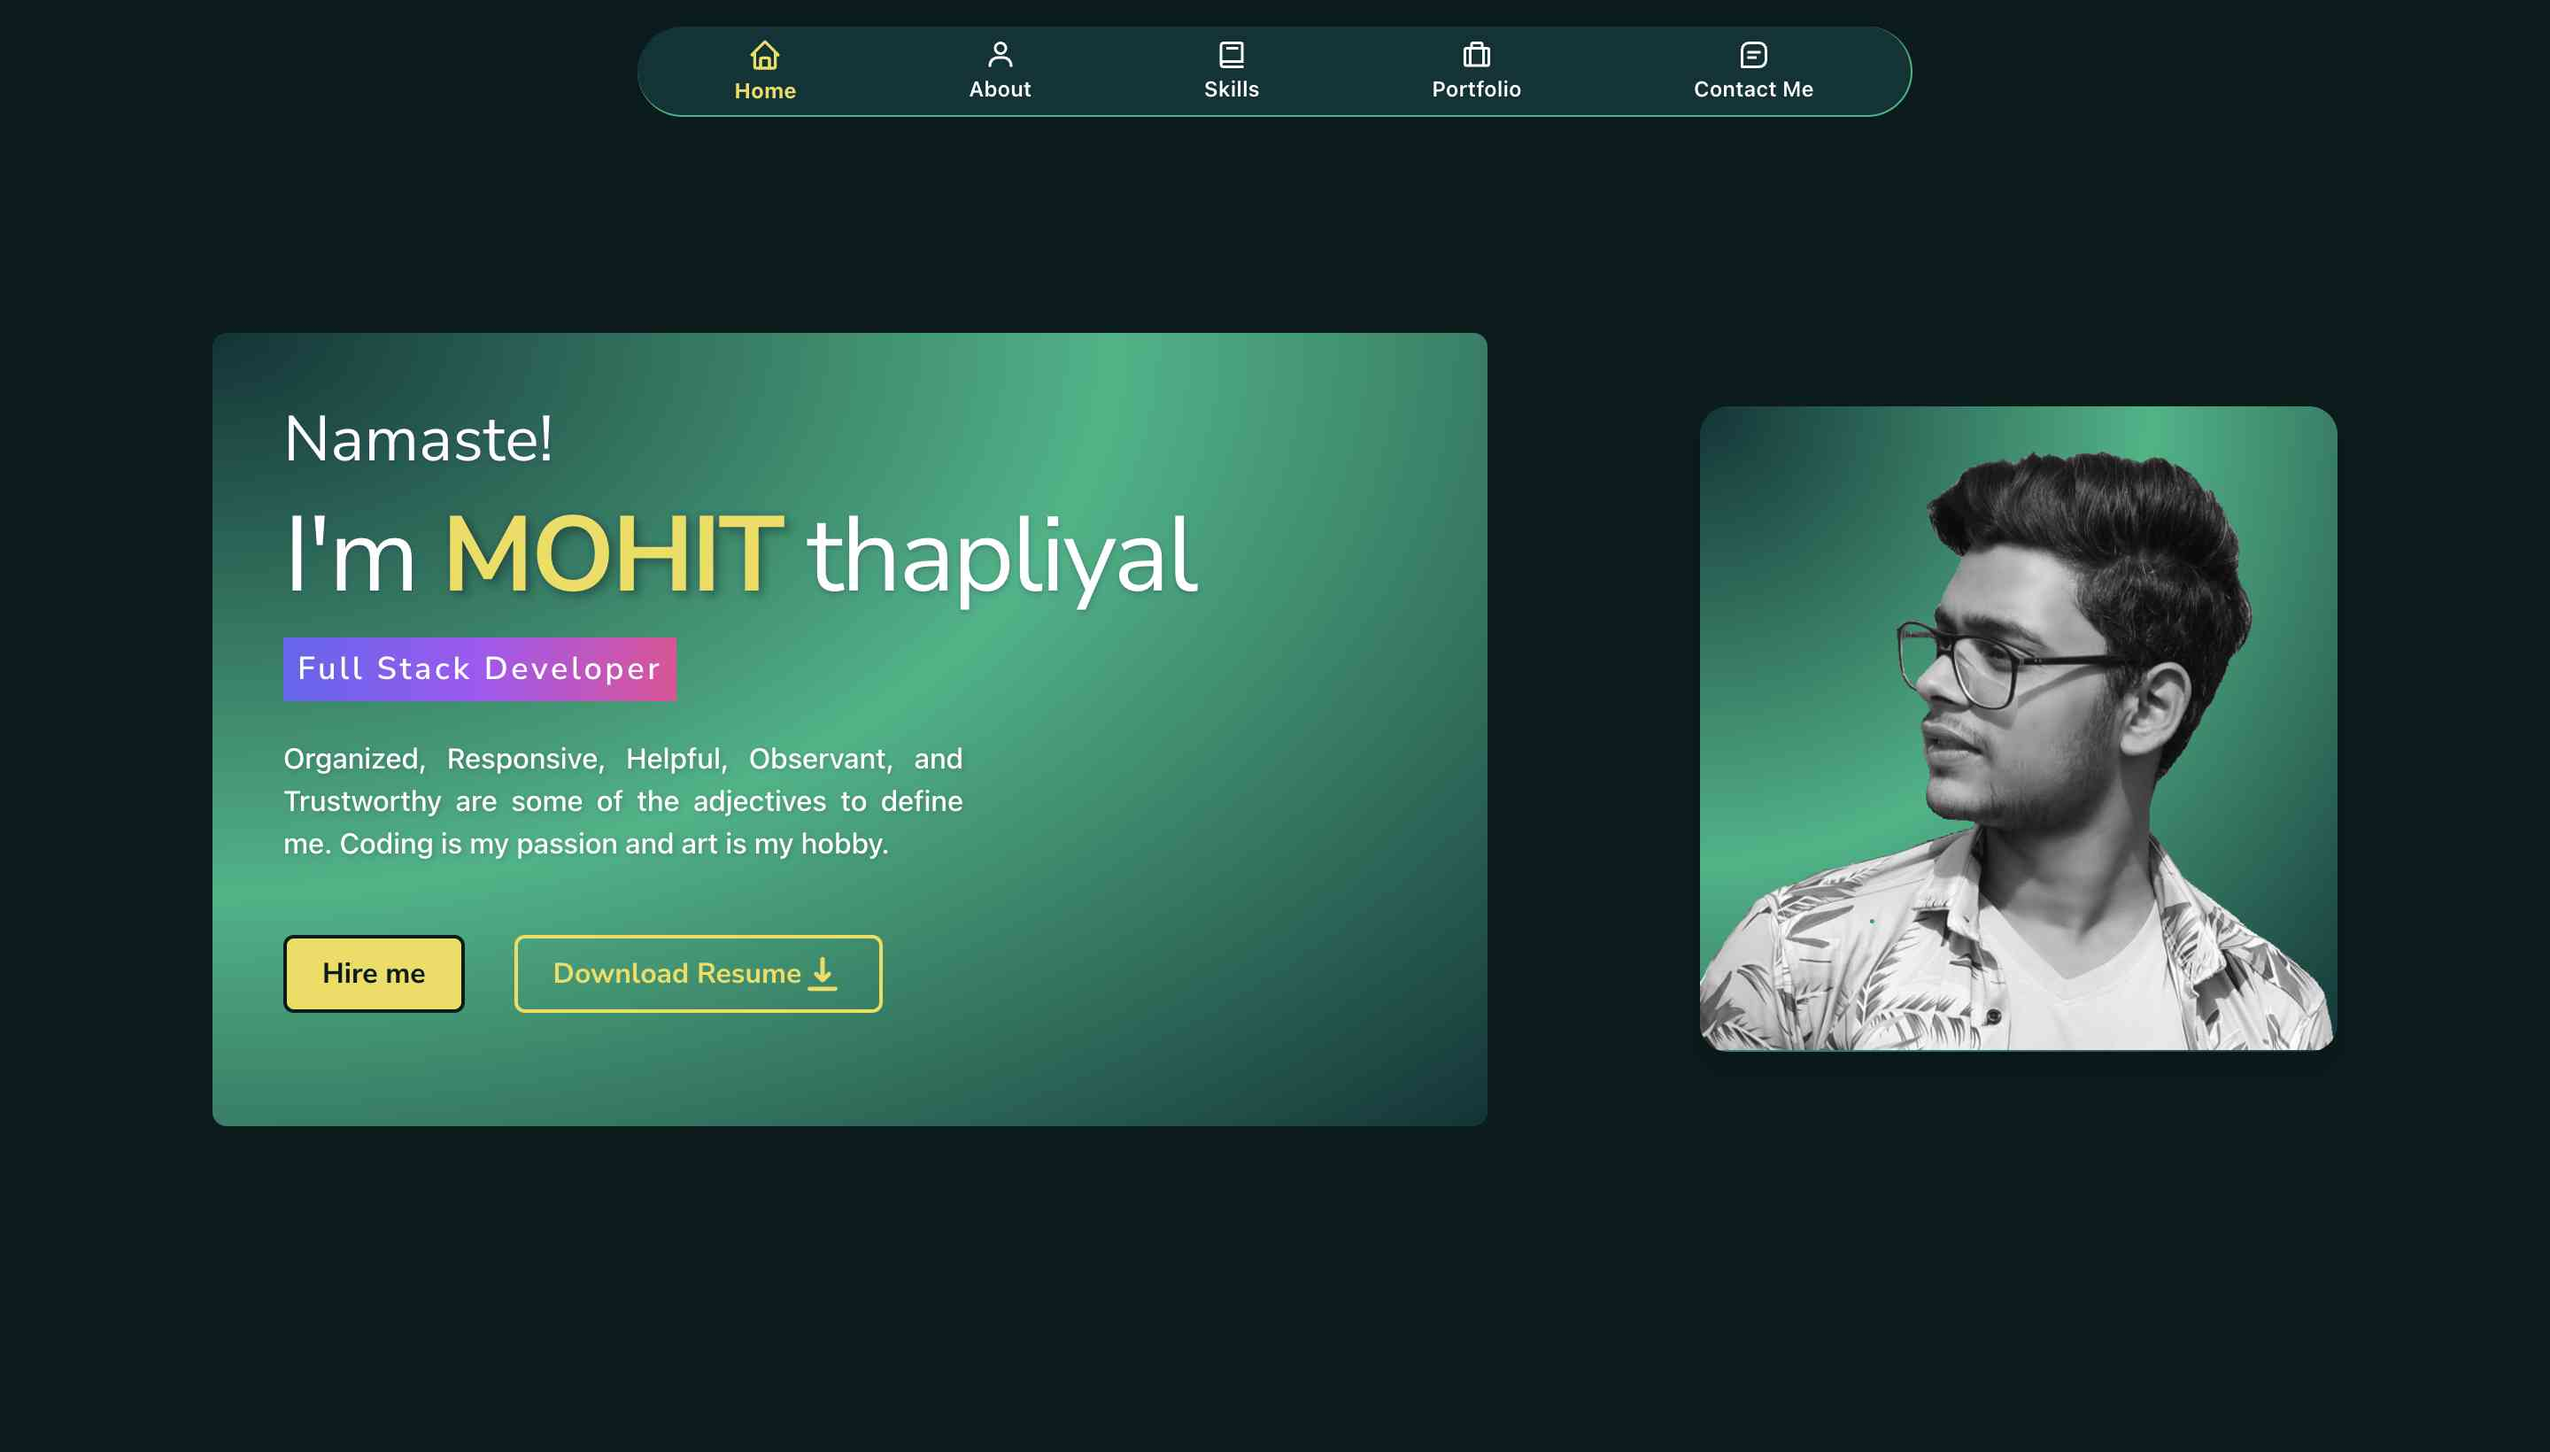
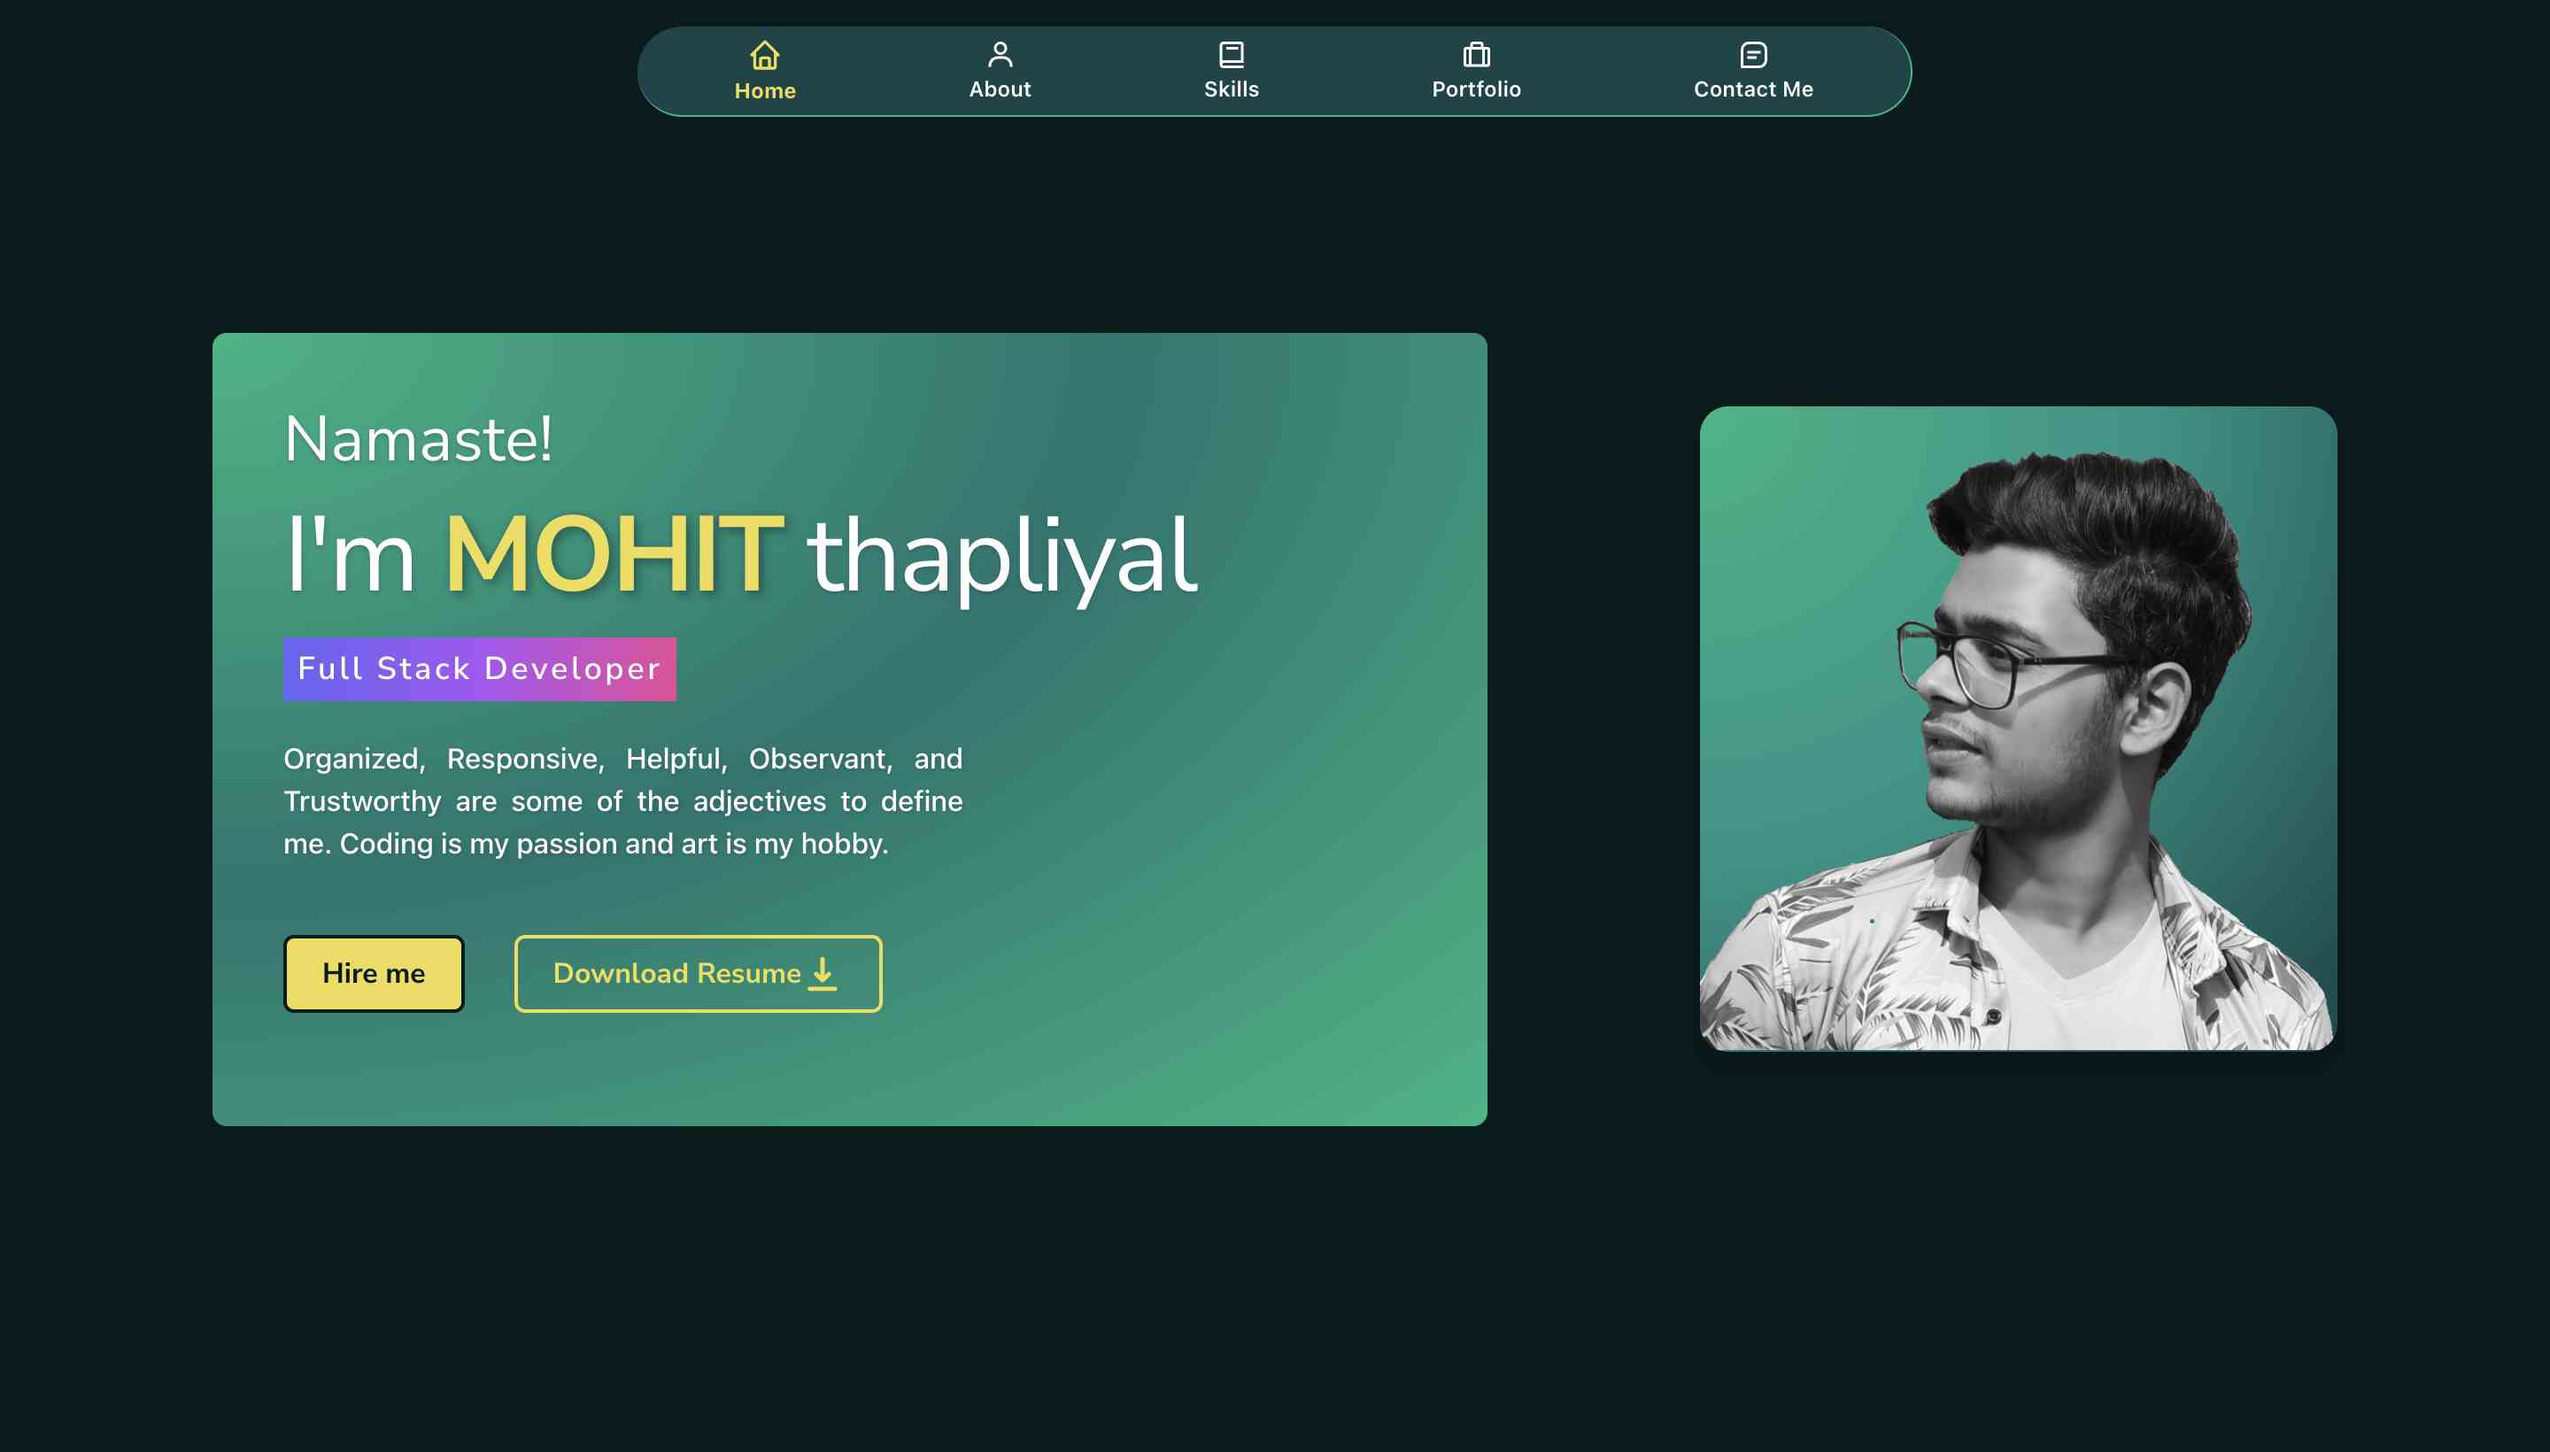
minor fixes

diff --git a/src/components/Main/Main.jsx b/src/components/Main/Main.jsx
@@ -34,7 +34,8 @@ const Main = () => {
             transition={{
               duration: 0.05,
             }}
-            className="flex justify-center bg-[radial-gradient(ellipse_at_top_left,_var(--tw-gradient-stops))] from-secondary via-tertiary to-secondary w-7/12  rounded-3xl md:rounded-[1em] hover:scale-105 duration-300 ease-linear md:justify-end md:w-5/12 lg:w-3/12"
+            // className="flex justify-center bg-[radial-gradient(ellipse_at_top_left,_var(--tw-gradient-stops))] from-secondary via-tertiary to-secondary w-7/12  rounded-3xl md:rounded-[1em] hover:scale-105 duration-300 ease-linear md:justify-end md:w-5/12 lg:w-3/12"
+            className="flex justify-center bg-[radial-gradient(ellipse_at_top_left,_var(--tw-gradient-stops))] from-tertiary via-teal-600 to-secondary w-7/12  rounded-3xl md:rounded-[1em] hover:scale-105 duration-300 ease-linear md:justify-end md:w-5/12 lg:w-3/12"
           >
             <img
               src={profilePic}
@@ -55,7 +56,9 @@ const Main = () => {
             transition={{
               duration: 0.05,
             }}
-            className="w-5/6 p-3 py-5 text-left bg-[radial-gradient(ellipse_at_top_left,_var(--tw-gradient-stops))] from-secondary via-tertiary to-secondary duration-300 ease-linear rounded-lg md:w-8/12 lg:w-6/12 md:p-10 lg:pb-8 lg:p-10 xl:pb-16"
+            // className="w-5/6 p-3 py-5 text-left bg-[radial-gradient(ellipse_at_top_left,_var(--tw-gradient-stops))] from-secondary via-tertiary to-secondary duration-300 ease-linear rounded-lg md:w-8/12 lg:w-6/12 md:p-10 lg:pb-8 lg:p-10 xl:pb-16"
+            className="w-5/6 p-3 py-5 text-left bg-[radial-gradient(ellipse_at_top_left,_var(--tw-gradient-stops))] from-tertiary via-teal-700 to-tertiary duration-300 ease-linear rounded-lg md:w-8/12 lg:w-6/12 md:p-10 lg:pb-8 lg:p-10 xl:pb-16"
+            // className="w-5/6 p-3 py-5 text-left duration-300 ease-linear rounded-lg bg-secondary md:w-8/12 lg:w-6/12 md:p-10 lg:pb-8 lg:p-10 xl:pb-16"
           >
             <h3 className="text-xl font-medium text-shadow-md md:text-4xl">
               Namaste!

diff --git a/src/components/Portfolio/Project.jsx b/src/components/Portfolio/Project.jsx
@@ -30,8 +30,8 @@ const Project = (props) => {
             />
           </div>
           <div className="px-3 py-5">
-            <h2 className="text-xl font-bold font-quicksand text-secondary">{props.title}</h2>
-            <div className="h-24 mt-2 text-sm font-semibold text-justify select-text lg:text-md font-quicksand text-secondary">
+            <h2 className="text-xl font-extrabold font-quicksand text-primary">{props.title}</h2>
+            <div className="h-24 mt-2 text-sm font-bold text-justify select-text lg:text-base font-quicksand text-secondary">
               {props.description}
             </div>
           </div>

diff --git a/src/components/Portfolio/Portfolio.jsx b/src/components/Portfolio/Portfolio.jsx
@@ -40,6 +40,8 @@ const Portfolio = () => {
       {
         breakpoint: 950,
         settings: {
+          centerMode: true,
+          infinite: true,
           slidesToShow: 2,
           slidesToScroll: 2,
           initialSlide: 2,
@@ -48,6 +50,8 @@ const Portfolio = () => {
       {
         breakpoint: 480,
         settings: {
+          centerMode: true,
+          infinite: true,
           slidesToShow: 1,
           slidesToScroll: 1,
         },

diff --git a/tailwind.config.js b/tailwind.config.js
@@ -60,9 +60,9 @@ module.exports = {
         // secondary: "#01644A",
 
         primary: "#061a1b",
-        secondary: "#023437",
+        secondary: "#0f4548",
         tertiary: "#05B683",
-        nosecondary: "#023437",
+        nosecondary: "#0f4548",
         notertiary: "#05B683",
         highlight: "#EFDB4F",
         // highlight: "#eedb32",

diff --git a/src/data.js b/src/data.js
@@ -12,7 +12,6 @@ import painting10 from "./images/painting/painting10.jpg";
 
 // Project Assets
 import bg0 from "./images/project/project0.jpeg";
-import bg1 from "./images/project/project1.jpg";
 import bg2 from "./images/project/project2.jpg";
 import bg3 from "./images/project/project3.jpg";
 import bg4 from "./images/project/project4.jpg";
